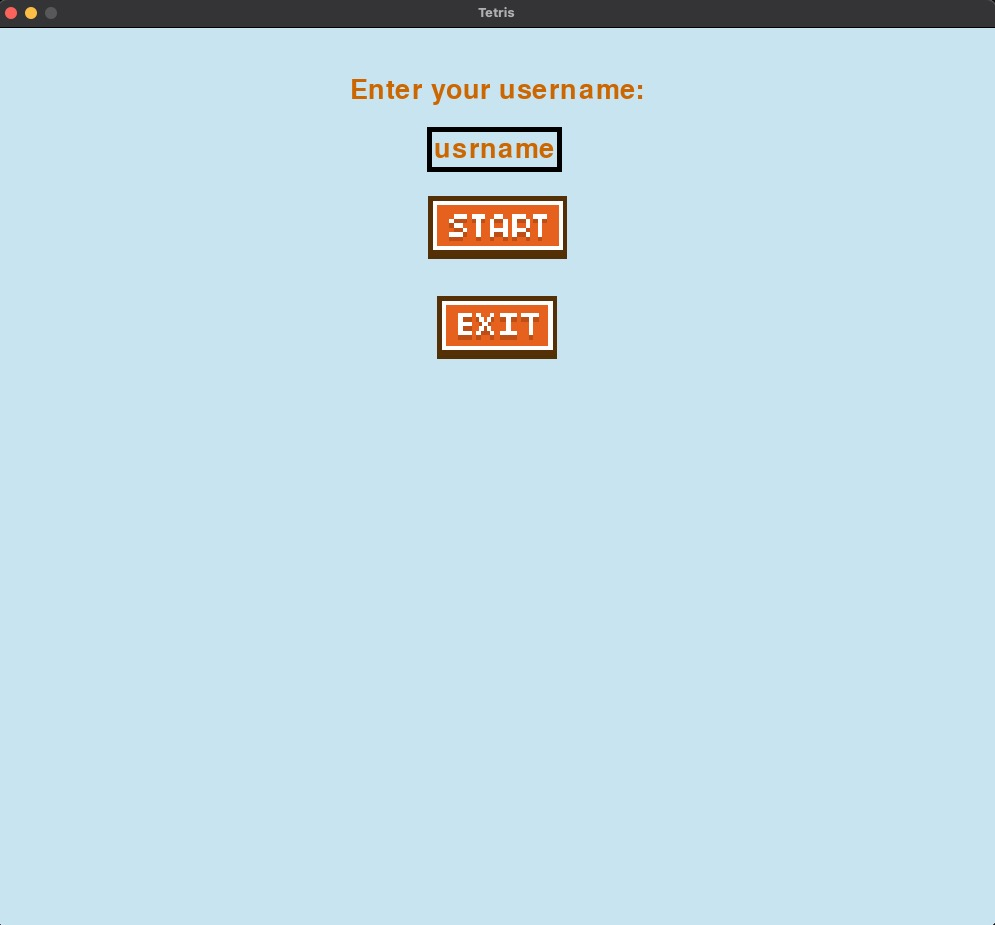
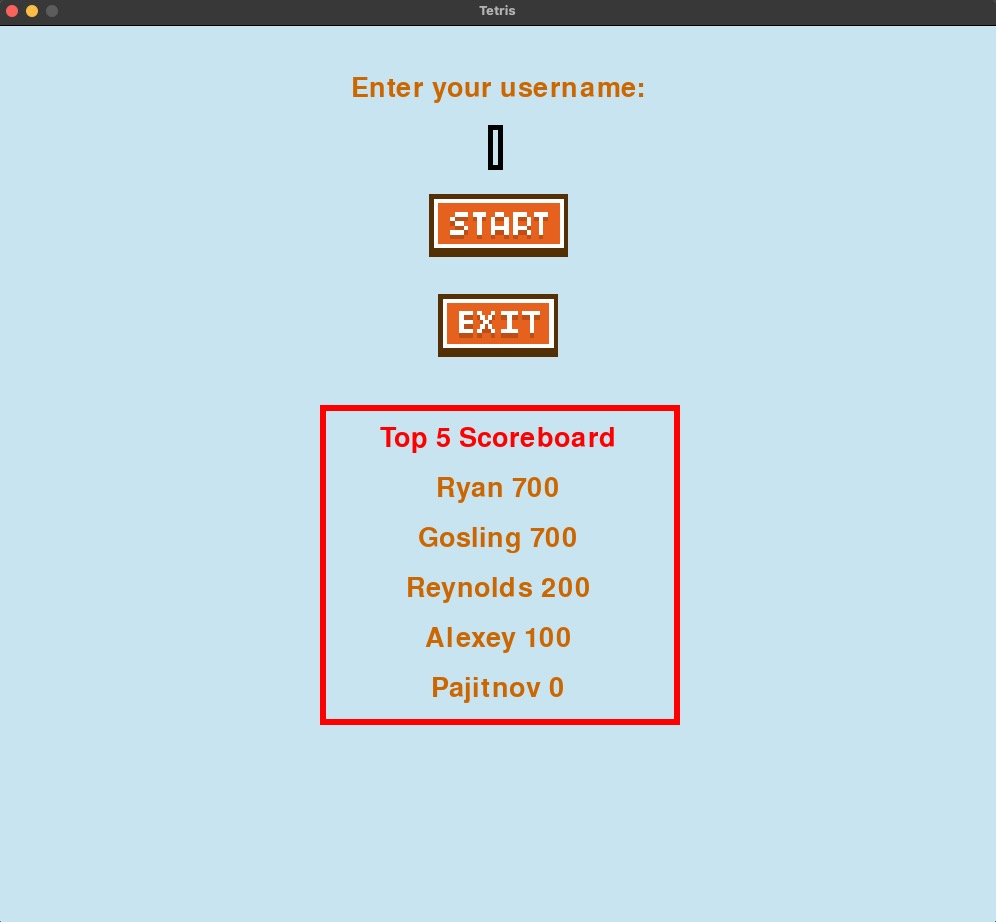
update documentation

diff --git a/tetris-game/dokumentaatio/vaatimusmaarittely.md b/tetris-game/dokumentaatio/vaatimusmaarittely.md
@@ -1,6 +1,6 @@
 # Vaatimuusmäärittely
 ## Pelin tarkoitus
-Pelisovellus noudattaa alkuperäisen Tetris-pelin ominaisuuksia, eli yksinpeli jossa tehtävänä on täyttää pelikentän rivit erimuotoisilla tetrominoilla, jolloin täytetyt rivit katoavat ja pelaaja saa pisteitä. Peli päättyy, kun täyttämättömät rivit saavuttavat pelikentän huipun. Käyttäjien parhaat tulokset tallenntuvat muistiin, jotka näkyvät pelaajille tulostaulussa.
+Pelisovellus noudattaa alkuperäisen Tetris-pelin ominaisuuksia, eli yksinpeli jossa tehtävänä on täyttää pelikentän rivit erimuotoisilla tetrominoilla, jolloin täytetyt rivit katoavat ja pelaaja saa pisteitä. Peli päättyy, kun täyttämättömät rivit saavuttavat pelikentän huipun. Parhaat tulokset tallenntuvat paikalliseen csv-tiedostoon, jotka näkyvät käyttäjille tulostaulussa.
 
 ## Käyttäjät
 Pelissä on vain normaaleja käyttäjiä, joilla on samat oikeudet ja toiminnallisuudet.
@@ -12,19 +12,13 @@ Pelissä on vain normaaleja käyttäjiä, joilla on samat oikeudet ja toiminnall
     - Käyttäjätunnukset pisteineen näkyvät parhaiden tuloksien tulostaulussa
 - Sovelluksessa ei ole kirjautumistoiminnallisuutta :white_check_mark:
     - Käyttäjä pääsee pelaamaan antamalla vain käyttäjätunnuksen
-- Peliin pääsee painamalla **`Play`** -painiketta :white_check_mark:
-- Valikossa pystyy suoraan säätämään ääniasetuksia ja väriteeman (kirkas/tumma)
-- TOP 10 parhaiden pisteiden tulostaulu
+- Peliin pääsee painamalla **`Start`** -painiketta :white_check_mark:
+- TOP 5 parhaiden pisteiden tulostaulu :white_check_mark:
 
 ### Pelissä
 - Tetrominot putoavat ylhäältä ja niiden liikuttaminen ja kääntäminen tapahtuu näppäimistön nuolinäppäimillä :white_check_mark:
 - Peli ilmoittaa saaduista pisteistä pelaajalle :white_check_mark:
-
-## Jatkokehitysideoita
-Ajan salliessa peliä täydennetään mm. seuraavilla toiminnallisuuksilla:
-
-- Vaikeustason säätö
-- Pelikentän koon säätö
+- Jos käyttäjä häviää pelin, ilmoittaa järjestelmä tästä ja näyttää saadut pisteet :white_check_mark:
 
 
 

diff --git a/tetris-game/dokumentaatio/testaus.md b/tetris-game/dokumentaatio/testaus.md
@@ -1,0 +1,20 @@
+# Testausdokumentti
+Sovellusta on testattu yksikkötesteillä.
+
+## Yksikkötestaus
+
+### Pelilogiikka
+Pelilogiikasta vastaavaa luokkaa `GameEngine` on testattu `TestGameEngine`-testausluokalla. Luokan testausta varten testausluokka alustetaan luomalla `GameEngine`-luokka ja luomalla sille uusi peliruudukko. `GameEngine`on projektin suurin ja toiminnan kannalta tärkein luokka, joka sisältää eniten toiminnallisuutta, ja siksi kyseisen luokan testaus on laajin.
+
+### Peliobjektit
+Peliobjekteista, eli tetrominoista vastaavaa luokkaa `Tetromino` on testattu `TestTetromino` testausluokalla. Luokan testausta varten testausluokka alustetaan luomalla `GameEngine`-luokka, joka on välttämätön pelisilmukan sisäisten luokkien toimintaan. Pelimoottorille luodaan peliruudukko ja testausluokalle uusi Tetromino-objekti.
+
+### Käyttäjätunnus
+Käyttäjätunnuksesta vastaavaa luokka `Username` on testattu `TestUsername`-testausluokalla.
+
+## Testikattavuus
+Sovelluksen testauksen haarautumakattavuus on 36%
+![](./kuvat/testikattavuus.jpg)
+
+## Laitetestaus
+Sovellusta on testattu macOS- sekä Linux-käyttöjärjestelmällä.

diff --git a/tetris-game/dokumentaatio/changelog.md b/tetris-game/dokumentaatio/changelog.md
@@ -50,3 +50,12 @@
 - Luotu docstring-dokumentaatio jokaiselle projektin luokalle ja suurimmalle osalle metodeista
 - Luotu pelin käyttöohje
 - Luotu toinen GitHub Release: Release 2
+
+## Viikko 7
+- Lisätty uusi toiminnallisuus: pisteiden tallennus- ja lukulogiikka
+  - Luotu luokka, joka on vastuussa pelipisteiden hallinnasta
+- Koodin refaktorointia
+- Sovelluksen arkkitehtuurikuvauksen parantaminen
+- Vaatimusmäärittelyn päivitys
+- Loppupalautus
+  Luotu viimeinen GitHub Release: loppupalautus

diff --git a/tetris-game/dokumentaatio/arkkitehtuuri.md b/tetris-game/dokumentaatio/arkkitehtuuri.md
@@ -35,6 +35,10 @@ classDiagram
     lock_and_switch_tetromino()
     check_if_lost()
   }
+  class StorageController{
+    get_scores()
+    save_scores()
+  }
   
   MainMenu "1" -- "1" GameLoop
   GameLoop "1" -- "1" GameEngine
@@ -45,6 +49,7 @@ classDiagram
   EventQueue "1" -- "1" MainMenu
   EventQueue "1" -- "1" GameLoop
   Username "1" -- "1" GameLoop
+  MainMenu "1" -- "1" StorageController
   ```
   
   ## Päätoiminnallisuudet

diff --git a/tetris-game/dokumentaatio/tuntikirjanpito.md b/tetris-game/dokumentaatio/tuntikirjanpito.md
@@ -16,4 +16,5 @@
 | 30.4 |  3   | lisätty seuraavan tetrominon piirtäminen, viesti häviämisen jälkeen |
 | 2.5 |  2   | luotu docstring-dokumentaatio ja käyttöohje |
 | 6.5 |  2   | lisätty pisteiden tallennustiedosto ja pistetaulun renderöinti |
-| yht   | 43 | | 
+| 7.5 |  3   | luotu luokka pelipisteiden hallintaan ja pientä koodin refaktorointia |
+| yht   | 46 | | 
